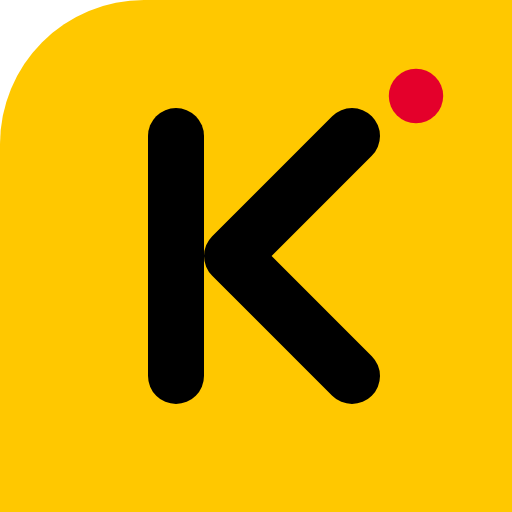
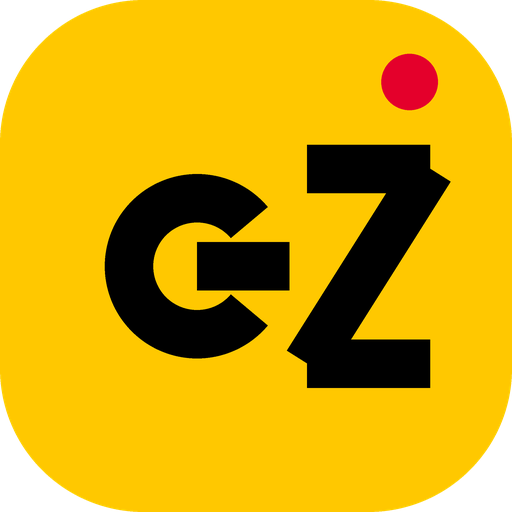
feat(genz): rebrand Kampuz to Gen Z
Rename the brand across the shell, screens, manifest and copy, and draw a GZ
monogram in the existing yellow-tile style (with a fresh og image) so the identity
matches the new name.

Point the client at the Campus API on https://rentpay.site so the app keeps
working from its own host, genz.rentpay.site.

diff --git a/index.html b/index.html
@@ -3,17 +3,19 @@
 <head>
   <meta charset="UTF-8" />
   <meta name="viewport" content="width=device-width, initial-scale=1.0, viewport-fit=cover" />
-  <meta name="description" content="Kampuz is the social home for Uganda's students: feed, shorts, live classes, course chat and an AI study buddy." />
+  <meta name="description" content="Gen Z is the social home for Uganda's students: feed, shorts, live classes, course chat and an AI study buddy." />
   <meta name="theme-color" content="#0b0d12" />
   <meta name="color-scheme" content="dark light" />
   <meta name="kz-build" content="5dea433e335274ac82f519f9d32b12ba420c1b7f" />
+  <link rel="canonical" href="https://genz.rentpay.site/" />
   <meta property="og:type" content="website" />
-  <meta property="og:site_name" content="Kampuz" />
-  <meta property="og:title" content="Kampuz: your campus, live." />
+  <meta property="og:site_name" content="Gen Z" />
+  <meta property="og:url" content="https://genz.rentpay.site/" />
+  <meta property="og:title" content="Gen Z: your campus, live." />
   <meta property="og:description" content="Share moments, join course chats, catch live classes and study with an AI buddy." />
-  <meta property="og:image" content="https://rentpay.site/brand/og.png" />
+  <meta property="og:image" content="https://genz.rentpay.site/brand/og.png" />
   <meta name="twitter:card" content="summary_large_image" />
-  <title>Kampuz: your campus, live</title>
+  <title>Gen Z: your campus, live</title>
   <link rel="icon" href="/brand/logo.svg" type="image/svg+xml" />
   <link rel="apple-touch-icon" href="/brand/apple-touch-icon.png" />
   <link rel="preconnect" href="https://fonts.googleapis.com" />
@@ -21,15 +23,15 @@
   <link href="https://fonts.googleapis.com/css2?family=Bricolage+Grotesque:opsz,wght@12..96,700;12..96,800&family=Plus+Jakarta+Sans:wght@400;500;600;700;800&display=swap" rel="stylesheet" />
   <link rel="manifest" href="/manifest.webmanifest" />
   <link rel="stylesheet" href="/css/app.css" />
-  <link rel="stylesheet" href="/css/kampuz.css" />
+  <link rel="stylesheet" href="/css/genz.css" />
   <script src="/lib/signalr.min.js"></script>
 </head>
 <body>
   <div id="app" class="app-root">
-    <div class="boot-screen" role="status" aria-label="Loading Kampuz">
+    <div class="boot-screen" role="status" aria-label="Loading Gen Z">
       <div class="boot-logo">
         <img src="/brand/logo.svg" width="72" height="72" alt="" />
-        <h1>Kampuz</h1>
+        <h1>Gen Z</h1>
         <p>Your campus, live.</p>
       </div>
       <div class="boot-dots"><span></span><span></span><span></span></div>

diff --git a/js/brand.js b/js/brand.js
@@ -1,17 +1,18 @@
-/* Kampuz — single source of truth for the brand. Change the name here and the app follows. */
+/* Gen Z — single source of truth for the brand. Change the name here and the app follows. */
 export const BRAND = Object.freeze({
-  name: 'Kampuz',
+  name: 'Gen Z',
   tagline: 'Your campus, live.',
-  legal: 'Kampuz © 2026',
+  legal: 'Gen Z © 2026',
 });
 
-/** The Kampuz mark: black "K" on boda-yellow, with a red live dot. Flat, self-contained SVG. */
+/** The Gen Z mark: black "GZ" on boda-yellow, with a red live dot. Flat, self-contained SVG. */
 export function logoMark(size = 36, { inverse = false } = {}) {
   const [tile, ink] = inverse ? ['#000', '#FFC800'] : ['#FFC800', '#000'];
   return `<svg class="kz-mark" viewBox="0 0 64 64" width="${size}" height="${size}" role="img" aria-label="${BRAND.name}">
     <rect width="64" height="64" rx="18" fill="${tile}"/>
-    <path d="M22 17v30" stroke="${ink}" stroke-width="7" stroke-linecap="round" fill="none"/>
-    <path d="M44 17 29 32l15 15" stroke="${ink}" stroke-width="7" stroke-linecap="round" stroke-linejoin="round" fill="none"/>
+    <path d="M35 23A10.5 10.5 0 1 0 35 41" stroke="${ink}" stroke-width="6" stroke-linecap="round" fill="none"/>
+    <path d="M24.5 32H35" stroke="${ink}" stroke-width="6" stroke-linecap="round" fill="none"/>
+    <path d="M39 21.5H53L39 42.5H53" stroke="${ink}" stroke-width="6" stroke-linecap="round" stroke-linejoin="round" fill="none"/>
     <circle cx="52" cy="12" r="3.4" fill="#E4002B"/></svg>`;
 }
 

diff --git a/js/auto-update.js b/js/auto-update.js
@@ -1,4 +1,4 @@
-/* Kampuz over-the-air updater.
+/* Gen Z over-the-air updater.
  *
  * A deploy publishes /version.json. This script notices a newer build and applies it without
  * ever yanking the page out from under someone:
@@ -72,7 +72,7 @@
     }
     banner.querySelector('.kz-update-msg').textContent = stuck
       ? 'An update is ready but could not be applied. Refresh the page again, or clear site data if it keeps happening.'
-      : (pending.notes ? `Update ready: ${pending.notes}` : 'A new version of Kampuz is ready.');
+      : (pending.notes ? `Update ready: ${pending.notes}` : 'A new version of Gen Z is ready.');
   }
 
   async function check() {

diff --git a/js/views/settings.js b/js/views/settings.js
@@ -1,5 +1,5 @@
 import { BRAND } from '../brand.js';
-/* Kampuz — Settings: profile, appearance, screen time, premium, danger zone */
+/* Gen Z — Settings: profile, appearance, screen time, premium, danger zone */
 import { api, session, getTheme, setTheme } from '../api.js';
 import { esc, h, icon, toast, fmtDuration, confirmDialog, avatar } from '../ui.js';
 import { editProfileDialog } from './profile.js';

diff --git a/js/components.js b/js/components.js
@@ -1,4 +1,4 @@
-/* Kampuz — reusable components (post card, composer, user rows) */
+/* Gen Z — reusable components (post card, composer, user rows) */
 import { api, session } from './api.js';
 import { esc, rich, h, avatar, timeAgo, fmtCount, icon, toast, lightbox, confirmDialog, nav } from './ui.js';
 import { connectChat } from './realtime.js';

diff --git a/css/genz.css b/css/genz.css
@@ -1,5 +1,5 @@
 /* ============================================================
-   Kampuz identity layer. Loads after app.css and only overrides.
+   Gen Z identity layer. Loads after app.css and only overrides.
 
    Direction: boda-boda yellow and signage black, taken from the
    taxis, road signs and flag of the place this app is for.

diff --git a/js/api.js b/js/api.js
@@ -1,6 +1,6 @@
-/* Kampuz — client API with auth, token refresh, contract adapters and graceful degradation */
+/* Gen Z — client API with auth, token refresh, contract adapters and graceful degradation */
 
-const BASE = '';
+const BASE = 'https://rentpay.site';
 const store = {
   access: null, refresh: null, user: null,
 };

diff --git a/js/app.js b/js/app.js
@@ -1,4 +1,4 @@
-/* Kampuz — SPA router + app shell */
+/* Gen Z — SPA router + app shell */
 import { api, session, loadSession, getTheme, setTheme, clearSession, saveSession } from './api.js';
 import { esc, h, icon, toast, avatar, timeAgo, nav } from './ui.js';
 import { renderAuth } from './views/auth.js';

diff --git a/js/extras.js b/js/extras.js
@@ -1,4 +1,4 @@
-/* Kampuz — command palette (Ctrl/⌘+K) and PWA install prompt. */
+/* Gen Z — command palette (Ctrl/⌘+K) and PWA install prompt. */
 import { BRAND } from './brand.js';
 import { icons } from './icons.js';
 import { getTheme, setTheme } from './api.js';

diff --git a/js/views/auth.js b/js/views/auth.js
@@ -1,4 +1,4 @@
-/* Kampuz — Auth view (login + register) */
+/* Gen Z — Auth view (login + register) */
 import { api, saveSession, setTheme } from '../api.js';
 import { esc, h, icon, toast } from '../ui.js';
 import { BRAND, logoMark, wordmark } from '../brand.js';

diff --git a/js/views/search.js b/js/views/search.js
@@ -1,4 +1,4 @@
-/* Kampuz — Search view */
+/* Gen Z — Search view */
 import { BRAND } from '../brand.js';
 import { api } from '../api.js';
 import { esc, h, icon, emptyState, nav, fmtCount } from '../ui.js';
